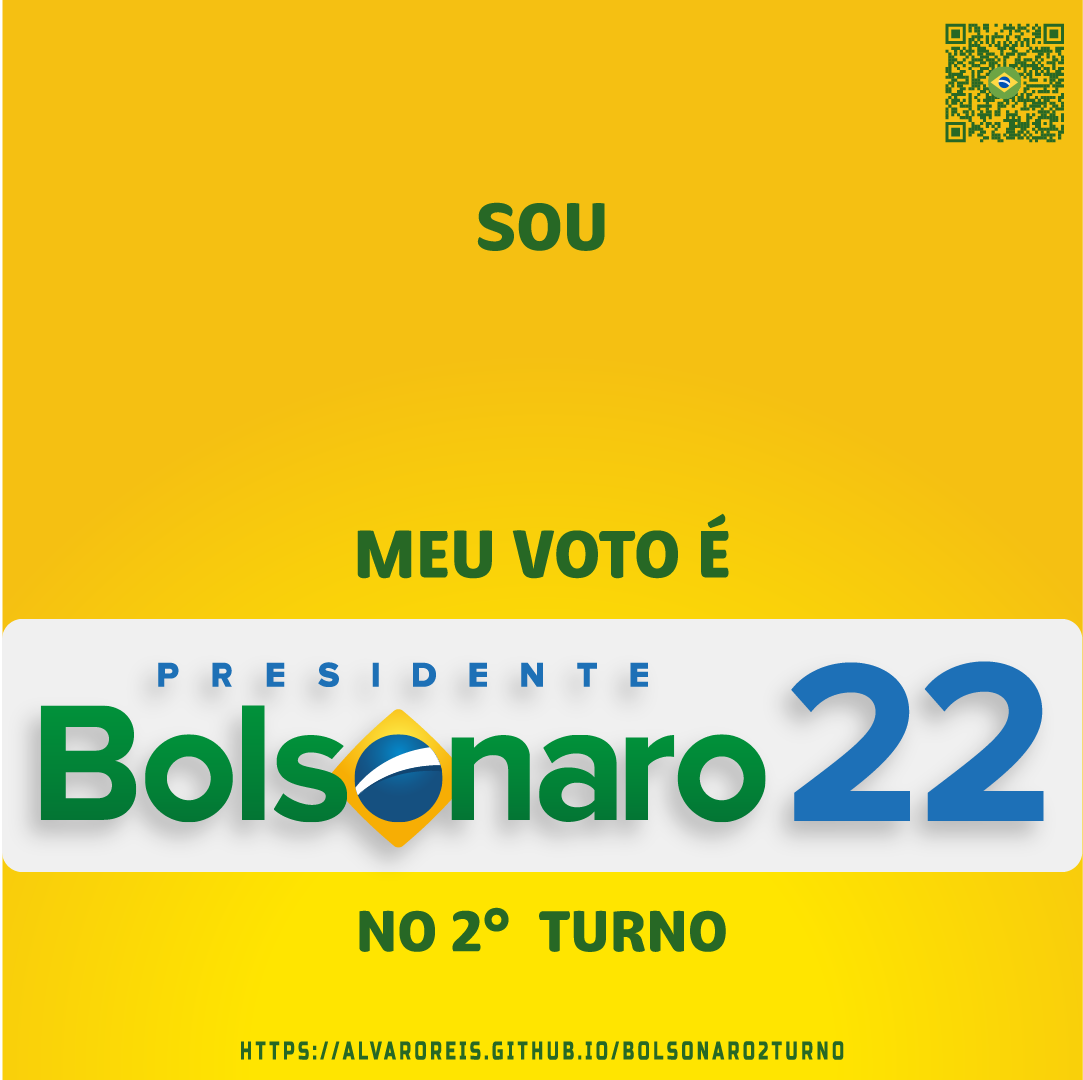
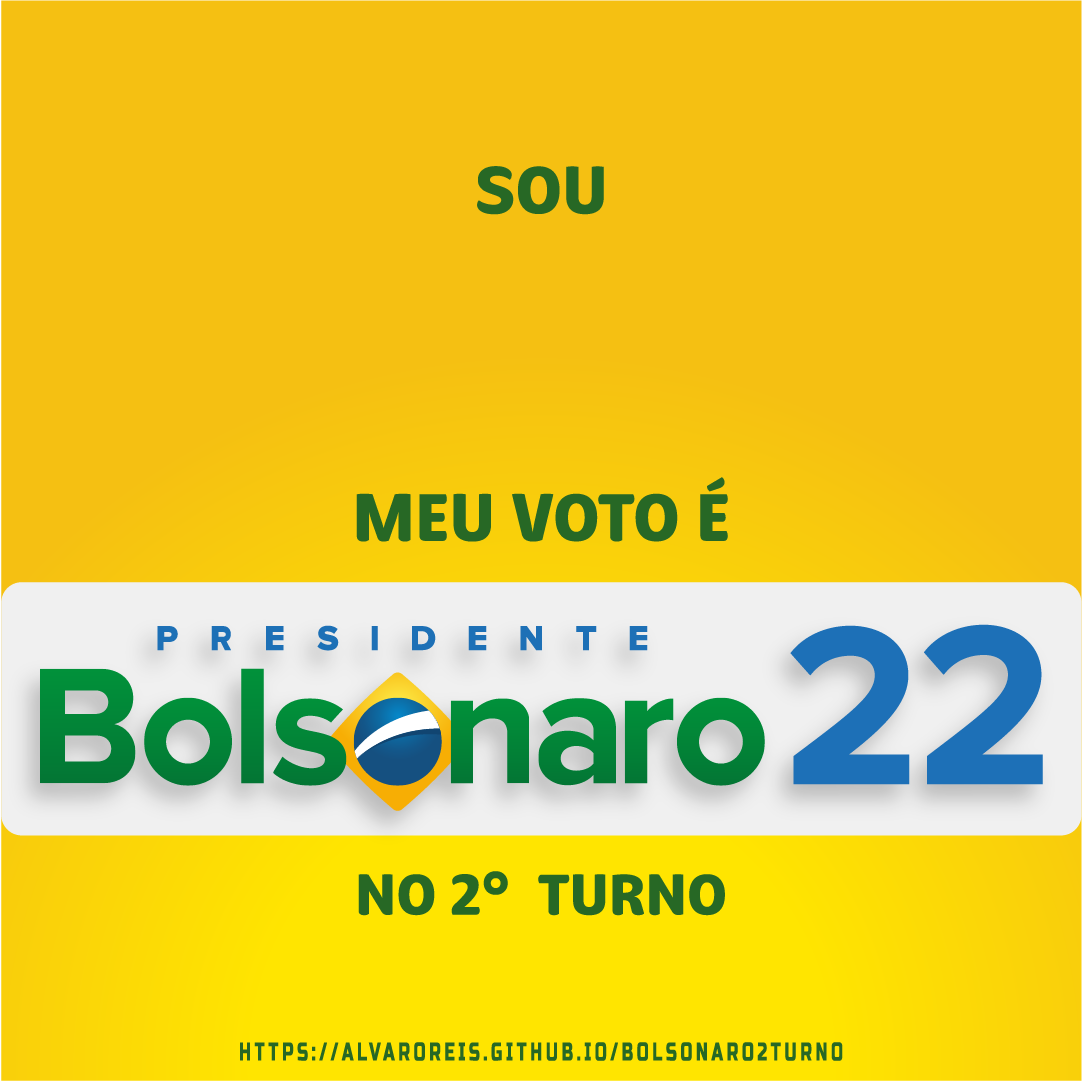
feat: remove image qrcode

diff --git a/types/simple/js/script.js b/types/simple/js/script.js
@@ -46,7 +46,7 @@ baseImage.addEventListener("load", () => {
         context.clearRect(0, 0, canvas.width, canvas.height);
         context.drawImage(baseImage, 0, 0);
         context.save();
-        context.translate(540, 390);
+        context.translate(540, 360);
 
         const name = document.querySelector(codeInput).value.trim().toUpperCase();
         context.textBaseline = "middle";
